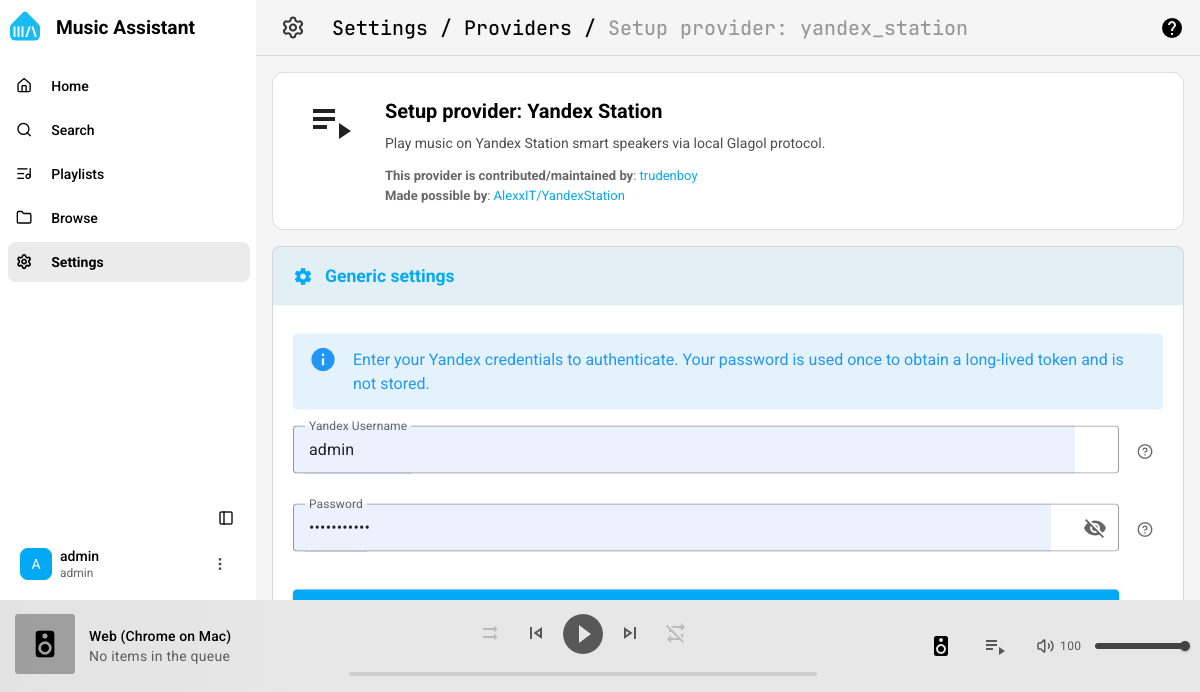
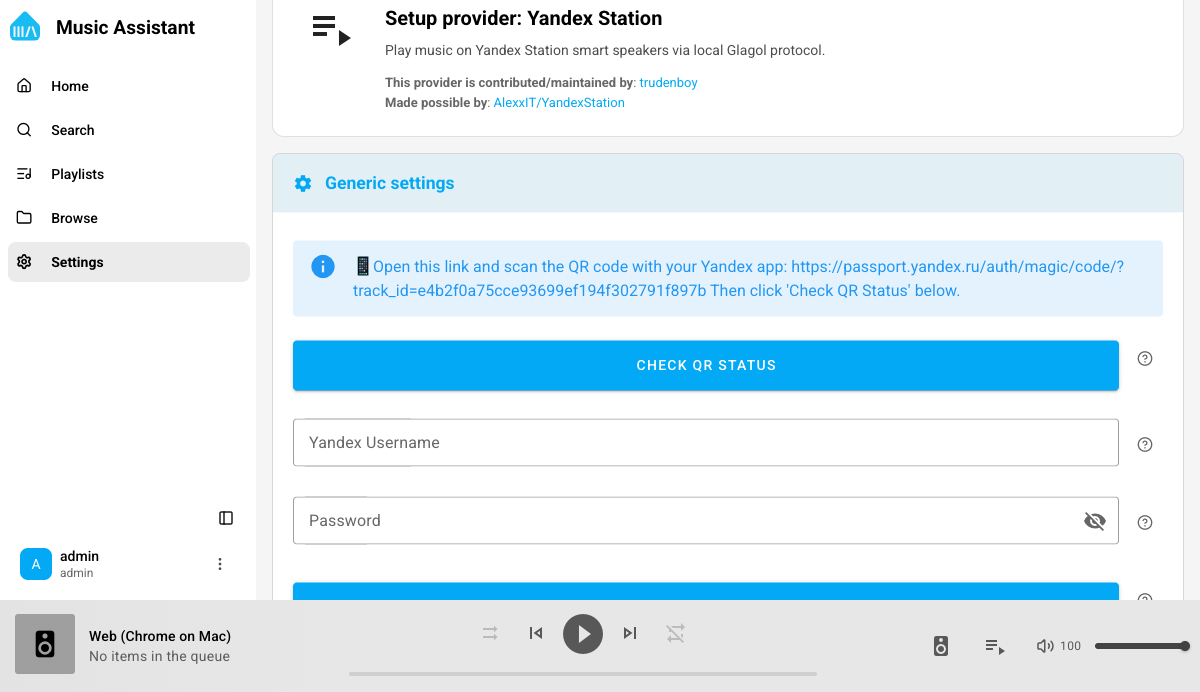
feat: add QR code login (primary) and simplify password login
QR code auth via Yandex Magic Link — works with 2FA accounts:
- Get QR Code → opens link with QR for Yandex app scan
- Check QR Status → verifies scan and exchanges for x_token

Password login simplified to match AlexxIT's approach:
- Returns redirect.unsupported for 2FA accounts (suggests QR)
- Removed complex push-challenge polling

diff --git a/provider/__init__.py b/provider/__init__.py
@@ -17,8 +17,12 @@ from music_assistant_models.errors import LoginFailed
 from .constants import (
     CONF_ACTION_CLEAR_AUTH,
     CONF_ACTION_LOGIN,
+    CONF_ACTION_QR_CHECK,
+    CONF_ACTION_QR_START,
     CONF_MUSIC_TOKEN,
     CONF_PASSWORD,
+    CONF_QR_CSRF,
+    CONF_QR_TRACK_ID,
     CONF_USERNAME,
     CONF_X_TOKEN,
 )
@@ -45,46 +49,110 @@ async def _handle_auth_action(
     if values is None or action is None:
         return None
 
-    if action == CONF_ACTION_LOGIN:
-        username = values.get(CONF_USERNAME)
-        password = values.get(CONF_PASSWORD)
-        if not username or not password:
-            return "Username and password are required."
+    if action == CONF_ACTION_QR_START:
+        return await _handle_qr_start(values)
 
+    if action == CONF_ACTION_QR_CHECK:
+        return await _handle_qr_check(values)
+
+    if action == CONF_ACTION_LOGIN:
+        return await _handle_password_login(values)
+
+    if action == CONF_ACTION_CLEAR_AUTH:
+        values[CONF_X_TOKEN] = None
+        values[CONF_MUSIC_TOKEN] = None
+        values[CONF_QR_CSRF] = None
+        values[CONF_QR_TRACK_ID] = None
+
+    return None
+
+
+async def _handle_qr_start(values: dict[str, ConfigValueType]) -> str | None:
+    """Start QR code auth — get QR URL from Yandex."""
+    try:
+        async with ClientSession() as http_session:
+            session = YandexSession(http_session)
+            qr_url, csrf_token, track_id = await session.get_qr()
+
+        if not qr_url:
+            return "Failed to generate QR code. Try again."
+
+        # Store QR session state for the check step
+        values[CONF_QR_CSRF] = csrf_token
+        values[CONF_QR_TRACK_ID] = track_id
+    except Exception:
+        _LOGGER.exception("Error starting QR auth")
+        return "Unexpected error generating QR code. Check server logs."
+    return None
+
+
+async def _handle_qr_check(values: dict[str, ConfigValueType]) -> str | None:
+    """Check if QR code was scanned and exchange for x_token."""
+    csrf = values.get(CONF_QR_CSRF)
+    track_id = values.get(CONF_QR_TRACK_ID)
+    if not csrf or not track_id:
+        return "No active QR session. Click 'Get QR Code' first."
+
+    try:
+        async with ClientSession() as http_session:
+            session = YandexSession(http_session)
+            resp = await session.login_qr(str(csrf), str(track_id))
+
+        if not resp.ok:
+            errors = resp.errors
+            if "qr.not_scanned" in errors:
+                return "QR code not scanned yet. Open the link, scan with Yandex app, then try again."
+            return f"QR auth failed: {', '.join(errors)}"
+
+        # Success
+        values[CONF_X_TOKEN] = resp.x_token
+        values[CONF_QR_CSRF] = None
+        values[CONF_QR_TRACK_ID] = None
+    except Exception:
+        _LOGGER.exception("Error checking QR auth status")
+        return "Unexpected error during QR auth. Check server logs."
+    return None
+
+
+async def _handle_password_login(values: dict[str, ConfigValueType]) -> str | None:
+    """Login with username/password."""
+    username = values.get(CONF_USERNAME)
+    password = values.get(CONF_PASSWORD)
+    if not username or not password:
+        return "Username and password are required."
+
+    try:
         async with ClientSession() as http_session:
             session = YandexSession(http_session)
 
-            # Step 1: Submit username
-            resp = session.login_username(str(username))
-            resp = await resp
+            resp = await session.login_username(str(username))
             if not resp.ok and resp.errors:
                 error = resp.errors[0]
                 if error == "account.not_found":
                     return "Account not found. Check your username."
                 return f"Login error: {error}"
 
-            # Step 2: Submit password
             resp = await session.login_password(str(password))
             if not resp.ok:
                 errors = resp.errors
                 if "password.not_matched" in errors:
                     return "Wrong password."
                 if "captcha.required" in errors:
-                    return (
-                        "Captcha required. Yandex blocked automated login. "
-                        "Please obtain x_token manually (see documentation)."
-                    )
+                    return "Captcha required. Use QR code login instead."
+                if "redirect.unsupported" in errors:
+                    return "2FA redirect detected. Use QR code login instead."
+                if "push.timeout" in errors:
+                    return "Push not approved in time. Try QR code login instead."
+                if "push.denied" in errors:
+                    return "Push denied. Please try again."
                 return f"Login failed: {', '.join(errors)}"
 
-            # Success — store tokens
             values[CONF_X_TOKEN] = resp.x_token
             values[CONF_USERNAME] = None
             values[CONF_PASSWORD] = None
-
-    elif action == CONF_ACTION_CLEAR_AUTH:
-        values[CONF_X_TOKEN] = None
-        values[CONF_MUSIC_TOKEN] = None
-
+    except Exception:
+        _LOGGER.exception("Unexpected error during Yandex login")
+        return "Unexpected error during login. Check server logs."
     return None
 
 
@@ -95,22 +163,33 @@ async def get_config_entries(
     values: dict[str, ConfigValueType] | None = None,
 ) -> tuple[ConfigEntry, ...]:
     """Return Config entries to setup this provider."""
-    # Handle auth actions
     auth_error = await _handle_auth_action(action, values)
 
-    # Determine authentication state
     x_token = (values or {}).get(CONF_X_TOKEN)
     is_authenticated = x_token not in (None, "")
 
-    # Build dynamic label text
+    # QR session state
+    qr_track_id = (values or {}).get(CONF_QR_TRACK_ID)
+    has_qr_session = qr_track_id not in (None, "")
+    qr_url = ""
+    if has_qr_session:
+        qr_url = f"https://passport.yandex.ru/auth/magic/code/?track_id={qr_track_id}"
+
+    # Build status label
     if auth_error:
         label_text = f"⚠ {auth_error}"
+    elif not is_authenticated and has_qr_session:
+        label_text = (
+            f"📱 Open this link and scan the QR code with your Yandex app: {qr_url} "
+            "Then click 'Check QR Status' below."
+        )
     elif not is_authenticated:
         label_text = (
-            "Enter your Yandex credentials to authenticate. "
-            "Your password is used once to obtain a long-lived token and is not stored."
+            "Authenticate with your Yandex account. "
+            "QR code login is recommended (works with 2FA). "
+            "Password login works for accounts without 2FA."
         )
-    elif action == CONF_ACTION_LOGIN:
+    elif action in (CONF_ACTION_LOGIN, CONF_ACTION_QR_CHECK):
         label_text = "✅ Authenticated successfully! Click Save to complete setup."
     else:
         label_text = "✅ Authenticated to Yandex. No further action required."
@@ -122,12 +201,29 @@ async def get_config_entries(
             type=ConfigEntryType.LABEL,
             label=label_text,
         ),
-        # ── Login form (shown when not authenticated) ──
+        # ── QR code login (primary method, shown when not authenticated) ──
+        ConfigEntry(
+            key=CONF_ACTION_QR_START,
+            type=ConfigEntryType.ACTION,
+            label="Get QR Code",
+            description="Generate a QR code link for login via Yandex app.",
+            action=CONF_ACTION_QR_START,
+            hidden=is_authenticated or has_qr_session,
+        ),
+        ConfigEntry(
+            key=CONF_ACTION_QR_CHECK,
+            type=ConfigEntryType.ACTION,
+            label="Check QR Status",
+            description="Check if QR code was scanned and approved.",
+            action=CONF_ACTION_QR_CHECK,
+            hidden=is_authenticated or not has_qr_session,
+        ),
+        # ── Password login (fallback, shown when not authenticated) ──
         ConfigEntry(
             key=CONF_USERNAME,
             type=ConfigEntryType.STRING,
             label="Yandex Username",
-            description="Your Yandex login (email or phone number).",
+            description="Your Yandex login (email or phone). For accounts without 2FA.",
             required=False,
             hidden=is_authenticated,
             value=values.get(CONF_USERNAME, "") if values else "",
@@ -136,7 +232,7 @@ async def get_config_entries(
             key=CONF_PASSWORD,
             type=ConfigEntryType.SECURE_STRING,
             label="Password",
-            description="Used once to obtain x_token. Not stored.",
+            description="Used once to obtain token. Not stored.",
             required=False,
             hidden=is_authenticated,
             value=values.get(CONF_PASSWORD, "") if values else "",
@@ -144,8 +240,8 @@ async def get_config_entries(
         ConfigEntry(
             key=CONF_ACTION_LOGIN,
             type=ConfigEntryType.ACTION,
-            label="Login to Yandex",
-            description="Authenticate with your Yandex credentials.",
+            label="Login with Password",
+            description="Authenticate with username and password.",
             action=CONF_ACTION_LOGIN,
             hidden=is_authenticated,
         ),
@@ -160,15 +256,12 @@ async def get_config_entries(
             required=False,
             hidden=not is_authenticated,
         ),
-        # ── Token storage (hidden, managed automatically) ──
+        # ── Token storage (advanced, managed automatically) ──
         ConfigEntry(
             key=CONF_X_TOKEN,
             type=ConfigEntryType.SECURE_STRING,
             label="Yandex X-Token",
-            description=(
-                "Long-lived authentication token (~1 year). "
-                "Automatically obtained via login, or enter manually."
-            ),
+            description="Long-lived auth token (~1 year). Auto-obtained via login.",
             required=True,
             value=values.get(CONF_X_TOKEN, "") if values else "",
             category="advanced",
@@ -183,6 +276,23 @@ async def get_config_entries(
             value=values.get(CONF_MUSIC_TOKEN, "") if values else "",
             category="advanced",
             advanced=True,
+        ),
+        # ── Hidden QR state fields ──
+        ConfigEntry(
+            key=CONF_QR_CSRF,
+            type=ConfigEntryType.STRING,
+            label="QR CSRF",
+            required=False,
+            hidden=True,
+            value=values.get(CONF_QR_CSRF, "") if values else "",
+        ),
+        ConfigEntry(
+            key=CONF_QR_TRACK_ID,
+            type=ConfigEntryType.STRING,
+            label="QR Track ID",
+            required=False,
+            hidden=True,
+            value=values.get(CONF_QR_TRACK_ID, "") if values else "",
         ),
     )
 

diff --git a/provider/session.py b/provider/session.py
@@ -153,6 +153,58 @@ class YandexSession:
         if not self.music_token and self.x_token:
             self.music_token = await self.get_music_token(self.x_token)
 
+    # ── QR code login flow (magic_x_token → x_token) ───────────
+
+    async def get_qr(self) -> tuple[str | None, str | None, str | None]:
+        """Start QR code auth session. Returns (qr_url, csrf_token, track_id) or (None, None, None)."""
+        _LOGGER.debug("Starting QR code auth")
+
+        # Step 1: Get CSRF token
+        async with self._session.get(f"{PASSPORT_URL}/am?app_platform=android") as r:
+            raw = await r.text()
+            m = re.search(r'"csrf_token"\s*value="([^"]+)"', raw)
+            if not m:
+                _LOGGER.error("Failed to get CSRF token for QR auth")
+                return None, None, None
+
+        # Step 2: Request QR code track_id
+        async with self._session.post(
+            f"{PASSPORT_URL}/registration-validations/auth/password/submit",
+            data={
+                "csrf_token": m[1],
+                "retpath": "https://passport.yandex.ru/profile",
+                "with_code": 1,
+            },
+        ) as r:
+            resp = await r.json()
+
+        if resp.get("status") != "ok":
+            _LOGGER.error("Failed to create QR session: %s", resp)
+            return None, None, None
+
+        csrf_token = resp["csrf_token"]
+        track_id = resp["track_id"]
+        qr_url = f"{PASSPORT_URL}/auth/magic/code/?track_id={track_id}"
+        _LOGGER.info("QR auth URL: %s", qr_url)
+        return qr_url, csrf_token, track_id
+
+    async def login_qr(self, csrf_token: str, track_id: str) -> LoginResponse:
+        """Check if QR code was scanned and approved. Exchange for x_token if so."""
+        _LOGGER.debug("Checking QR auth status")
+        self._auth_payload = {"csrf_token": csrf_token, "track_id": track_id}
+
+        async with self._session.post(
+            f"{PASSPORT_URL}/auth/new/magic/status/",
+            data=self._auth_payload,
+        ) as r:
+            resp = await r.json()
+
+        if resp.get("status") != "ok":
+            return LoginResponse({"status": "error", "errors": ["qr.not_scanned"]})
+
+        # QR approved — exchange cookies for x_token
+        return await self.login_cookies()
+
     # ── Passport login flow (username/password → x_token) ────────
 
     async def login_username(self, username: str) -> LoginResponse:
@@ -190,7 +242,6 @@ class YandexSession:
 
         _LOGGER.debug("Submitting password for passport login")
 
-        # Step 3: Submit password
         async with self._session.post(
             f"{PASSPORT_URL}/registration-validations/auth/multi_step/commit_password",
             data={
@@ -204,15 +255,12 @@ class YandexSession:
         if resp.get("status") != "ok":
             return LoginResponse(resp)
 
-        # Step 4: Follow redirect to finalize session cookies
-        redirect_url = resp.get("redirect_url")
-        if redirect_url:
-            if redirect_url.startswith("/"):
-                redirect_url = f"{PASSPORT_URL}{redirect_url}"
-            async with self._session.get(redirect_url, allow_redirects=True):
-                pass
+        # If Yandex returns a redirect (2FA challenge), password login can't complete
+        if "redirect_url" in resp:
+            _LOGGER.info("Password login returned redirect (2FA). Use QR login instead.")
+            return LoginResponse({"status": "error", "errors": ["redirect.unsupported"]})
 
-        # Step 5: Exchange session cookies for x_token
+        # No redirect — exchange session cookies for x_token
         return await self.login_cookies()
 
     async def login_cookies(self) -> LoginResponse:
@@ -236,7 +284,9 @@ class YandexSession:
         ) as r:
             resp = await r.json()
 
+        _LOGGER.debug("token_by_sessionid response keys=%s", list(resp.keys()))
         if "access_token" not in resp:
+            _LOGGER.warning("token_by_sessionid failed: %s", resp)
             return LoginResponse({"status": "error", "errors": ["token.exchange_failed"]})
 
         x_token = resp["access_token"]

diff --git a/provider/constants.py b/provider/constants.py
@@ -14,6 +14,12 @@ CONF_PASSWORD = "password"
 # Config action keys
 CONF_ACTION_LOGIN = "action_login"
 CONF_ACTION_CLEAR_AUTH = "action_clear_auth"
+CONF_ACTION_QR_START = "action_qr_start"
+CONF_ACTION_QR_CHECK = "action_qr_check"
+
+# Temporary QR auth state (stored in config values between action calls)
+CONF_QR_CSRF = "_qr_csrf"
+CONF_QR_TRACK_ID = "_qr_track_id"
 
 # Yandex Passport OAuth credentials (for obtaining x_token from session)
 PASSPORT_CLIENT_ID = "c0ebe342af7d48fbbbfcf2d2eedb8f9e"
